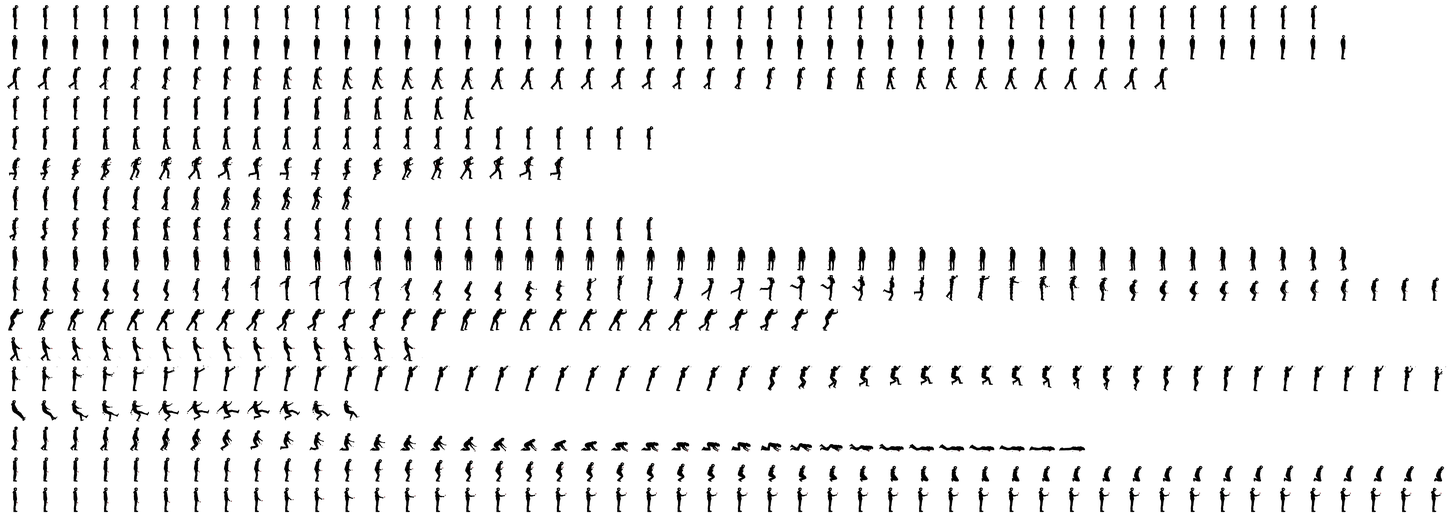
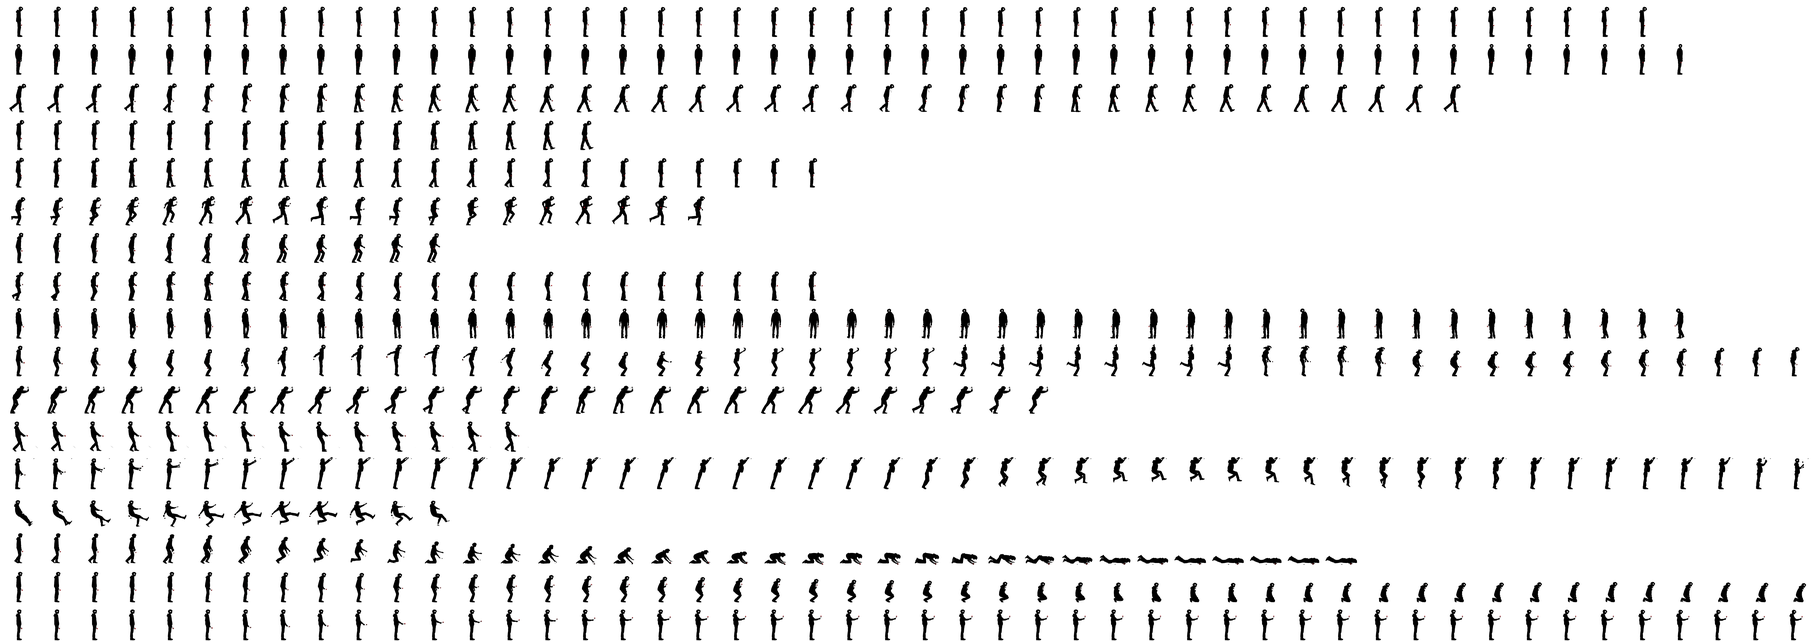
Gait-matched speeds, deeper ground, many more props
Sprites: 160 px cells with head-room so raised arms and jumps are no
longer clipped; frames the source video cropped are replaced by the
nearest clean one; each gait cycle stores its treadmill speed, measured
from the stride, and the engine plays walk, run, push, pull and the
mother's walk exactly as fast as the body moves, so feet stop sliding.

Movement: slower, grieving walk; ground run 1.6 with a full leap
whenever a direction is held at take-off (jump lengths unchanged);
gentler air control for hops; chases and timed levers retuned; water
stones rebalanced for the fixed-length leap.

World: stronger ground variation with mounds and hollows and a ragged
edge; grey ground bands under the far layers so trees are rooted;
props seated at the lowest ground under them; 32 new silhouettes
(stumps, ferns, graves, crows, scarecrow, well, mine cart, barrels,
lamp posts, poles, bicycle, clothesline...) placed in far, middle,
ground and foreground layers, plus hanging branches, front grass,
falling leaves, cave dust and crows crossing the sky.

Claude-Session: https://claude.ai/code/session_015t8gbJZNq26SKb4GYZLxqx

Changed region(s): [[0.4375, 0.5625, 0.5312, 0.5938], [0.5312, 0.5312, 0.5938, 0.5625]]

diff --git a/prototipos/una-rosa-cada-dia/index.html b/prototipos/una-rosa-cada-dia/index.html
@@ -94,7 +94,7 @@ button:focus-visible,input:focus-visible{outline:1px solid #bbb;outline-offset:3
    screen tall and several screens wide, designed by hand below.
    ========================================================================= */
 const VW = 480, VH = 270, GROUND = 230;
-const GRAV = .36, JUMP = -6.0, RUN = 2.0, WALK = 1.25, PUSHV = 1.0, STEP = 5;
+const GRAV = .36, JUMP = -6.0, RUN = 2.0, RUNG = 1.6, WALK = .55, MOMV = .65, PUSHV = .8, STEP = 5;
 const $ = s => document.querySelector(s);
 const cv = $('#game'), ctx = cv.getContext('2d');
 const RM = matchMedia('(prefers-reduced-motion: reduce)').matches;
@@ -107,9 +107,11 @@ const Ms = () => names.m.trim() || 'mamá';
 const cap = s => s.charAt(0).toUpperCase() + s.slice(1);
 
 /* ---------- assets ---------- */
-const PROPS = ['treeTall', 'treeSmall', 'grass', 'thorns', 'log', 'rock', 'roots', 'fence', 'stalL', 'stalM', 'stalS', 'mineFrame', 'stagL', 'stagM', 'chain', 'lantern', 'crate', 'trapOpen', 'trapShut', 'boulder', 'gate', 'lever', 'plate', 'rope'];
+const PROPS = ['treeTall', 'treeSmall', 'grass', 'thorns', 'log', 'rock', 'roots', 'fence', 'stalL', 'stalM', 'stalS', 'mineFrame', 'stagL', 'stagM', 'chain', 'lantern', 'crate', 'trapOpen', 'trapShut', 'boulder', 'gate', 'lever', 'plate', 'rope',
+  'stump', 'mushrooms', 'fern', 'deadBush', 'branch', 'sign', 'reeds', 'rockPile', 'cross', 'tomb', 'crow', 'tireSwing', 'scarecrow', 'wheel', 'well', 'birdhouse',
+  'cart', 'rail', 'barrels', 'ladder', 'planks', 'rootCurtain', 'crystals', 'pickaxe', 'lamp', 'pole', 'trashcan', 'fenceBroken', 'bicycle', 'doghouse', 'clothesline', 'steps'];
 const SRC = { brother: 'assets/brother.png', mother: 'assets/mother.png', forest_far: 'assets/forest_far.webp', cave_far: 'assets/cave_far.webp', rain_far: 'assets/rain_far.webp',
-  forest_mid: 'assets/forest_mid.webp', cave_ceil: 'assets/cave_ceil.webp', grass: 'assets/grass.png', house: 'assets/house.png', shadow: 'assets/shadow.webp', fog: 'assets/fog.png' };
+  forest_mid: 'assets/forest_mid.webp', cave_ceil: 'assets/cave_ceil.webp', grass: 'assets/grass.png', house: 'assets/house.png', shadow: 'assets/shadow.webp', fog: 'assets/fog.png', hang: 'assets/hang.png', fgrass: 'assets/fgrass.png' };
 for (const p of PROPS) SRC[p] = `assets/props/${p}.png`;
 const IMG = {}, ATLAS = {}; let META = {};
 function loadAll() {
@@ -155,7 +157,7 @@ const box = (x, y, w, h, kind, o = {}) => Object.assign({ x, y, w, h, kind, onew
 const deco = (k, x, base, h, layer = 'play', flip = false) => ({ k, x, base, h, layer, flip });
 
 function level1() { // EL BOSQUE
-  const L = { name: 'El bosque', theme: 'forest', w: 3300, rough: 7, flat: [[1186, 1430, 1.2], [2630, 2830, 0], [2880, 2945, 0]],
+  const L = { name: 'El bosque', theme: 'forest', w: 3300, rough: 9, flat: [[1186, 1430, 1.2], [2630, 2830, 0], [2880, 2945, 0]],
     terrain: [
       { pts: [[0, 224], [120, 228], [220, 236], [300, 240], [380, 236], [470, 228], [560, 232], [640, 232], [640, 172], [700, 170], [760, 174], [760, 232], [860, 234], [1000, 234], [1100, 230], [1130, 231]] },
       { pts: [[1186, 230], [1300, 228], [1420, 230], [1420, 130], [1560, 128], [1600, 140], [1680, 170], [1760, 200], [1840, 226], [1900, 230], [2150, 230], [2150, 208], [2200, 206], [2200, 230], [2380, 232]] },
@@ -166,7 +168,7 @@ function level1() { // EL BOSQUE
     traps: [{ x: 920, y: 234 }, { x: 2000, y: 230 }, { x: 2290, y: 231 }],
     plates: [{ id: 'plate0', x: 2760, y: 230, w: 34 }],
     levers: [], stal: [], water: [],
-    chases: [{ trigger: 1905, end: 2520, speed: 1.55 }],
+    chases: [{ trigger: 1905, end: 2520, speed: 1.3 }],
     checkpoints: [20, 790, 1470, 1880, 2560, 2940],
     goalX: 3140, houseX: 3070,
     says: [[30, 'h', 'Te lo prometí, ma. Una rosa todos los días.'], [560, 'n', 'Salta contra una pared baja para trepar.'], [1225, 'n', 'Empuja la caja.'],
@@ -183,7 +185,7 @@ function level1() { // EL BOSQUE
   return L;
 }
 function level2() { // LA CUEVA
-  return { name: 'La cueva', theme: 'cave', w: 3400, caveEnd: 2950, rough: 6, flat: [[1270, 1560, .8]],
+  return { name: 'La cueva', theme: 'cave', w: 3400, caveEnd: 2950, rough: 8, flat: [[1270, 1560, .8]],
     terrain: [
       { pts: [[0, 200], [140, 204], [260, 220], [380, 232], [440, 236], [440, 300]] },
       { pts: [[620, 300], [620, 236], [700, 232], [820, 230], [1700, 230]] },
@@ -191,7 +193,7 @@ function level2() { // LA CUEVA
       { pts: [[2650, 205], [2750, 190], [2900, 170], [3000, 165], [3150, 170], [3400, 172]] },
     ],
     boxes: [
-      box(478, 236, 30, 70, 'stone'), box(540, 238, 28, 70, 'stone', { fragile: true, sink: true }),
+      box(474, 236, 34, 70, 'stone'), box(540, 238, 36, 70, 'stone', { fragile: true, sink: true }),
       box(1520, 110, 16, 120, 'gate', { y0: 110, openH: 108, open: 0, by: 'lever0' }),
       ...Array.from({ length: 9 }, (_, i) => box(1702 + i * 29, 230, 27, 5, 'plank', { fragile: true })),
     ],
@@ -199,9 +201,9 @@ function level2() { // LA CUEVA
     crates: [],
     traps: [{ x: 1420, y: 230 }, { x: 2230, y: 230 }],
     plates: [],
-    levers: [{ id: 'lever0', x: 1300, y: 230, timed: 4.2 }],
+    levers: [{ id: 'lever0', x: 1300, y: 230, timed: 4.8 }],
     stal: [{ x: 905, len: 44 }, { x: 1015, len: 52 }, { x: 1125, len: 40 }, { x: 2300, len: 48 }, { x: 2560, len: 44 }],
-    chases: [{ trigger: 2050, end: 2900, speed: 1.6 }],
+    chases: [{ trigger: 2050, end: 2900, speed: 1.35 }],
     checkpoints: [20, 640, 1220, 1560, 1980, 2940],
     goalX: 3175, houseX: 3100,
     says: [[30, 'h', 'Aquí abajo no se ve nada.'], [420, 'n', 'El agua es profunda.'], [850, 'h', 'Algo cruje arriba.'], [1240, 'n', 'Shift o E junto a la palanca.'],
@@ -217,7 +219,7 @@ function level2() { // LA CUEVA
   };
 }
 function level3() { // LA LLUVIA
-  return { name: 'La lluvia', theme: 'rain', w: 3200, closed: true, rough: 7, flat: [[860, 1120, .8], [1230, 1520, .8]],
+  return { name: 'La lluvia', theme: 'rain', w: 3200, closed: true, rough: 9, flat: [[860, 1120, .8], [1230, 1520, .8]],
     terrain: [
       { pts: [[0, 228], [300, 230], [420, 226], [520, 230], [700, 160], [740, 160], [740, 230], [820, 230], [820, 188], [850, 188], [850, 230], [1850, 230]] },
       { pts: [[1905, 230], [2000, 230], [2000, 172], [2080, 170], [2130, 200], [2200, 230], [2400, 230]] },
@@ -232,8 +234,8 @@ function level3() { // LA LLUVIA
     crates: [{ x: 890, y: 204 }],
     traps: [{ x: 1000, y: 230 }, { x: 1024, y: 230 }, { x: 1048, y: 230 }, { x: 1750, y: 230 }, { x: 2255, y: 230 }],
     plates: [],
-    levers: [{ id: 'lever0', x: 1250, y: 230, timed: 3.4 }],
-    chases: [{ trigger: 1600, end: 2760, speed: 1.72 }],
+    levers: [{ id: 'lever0', x: 1250, y: 230, timed: 4.4 }],
+    chases: [{ trigger: 1600, end: 2760, speed: 1.45 }],
     checkpoints: [20, 870, 1120, 1540, 2600],
     goalX: 2890, houseX: 2820,
     says: [[30, 'h', 'Hoy está difícil, ¿verdad? Igual te la llevo.'], [860, 'n', 'Las trampas se cierran con cualquier peso.'], [1230, 'n', 'La reja se cierra rápido.'],
@@ -293,7 +295,11 @@ function roughen(d, seed) {
         for (let x = x1 + 14; x < x2 - 14; x += 11 + hash(x * .37 + seed) * 13) {
           const base = y1 + (y2 - y1) * (x - x1) / len, taper = Math.min(1, (x - x1) / 26, (x2 - x) / 26);
           const n = Math.sin(x * .0105 + seed) * .55 + Math.sin(x * .031 + seed * 2.3) * .3 + (hash(x * 1.7 + seed) - .5) * .3;
-          out.push([Math.round(x), base + n * ampAt(x) * taper]);
+          const amp = ampAt(x);
+          // an occasional mound or hollow, 70-130 px wide
+          const cell = Math.floor(x / 160), c0 = cell * 160 + 40 + hash(cell + seed) * 80, w = 35 + hash(cell * 3 + seed) * 30;
+          const bump = hash(cell * 7 + seed) > .45 ? (hash(cell * 11 + seed) > .5 ? -1 : .7) * (8 + hash(cell * 13) * 9) * Math.exp(-Math.pow((x - c0) / w, 2)) : 0;
+          out.push([Math.round(x), base + (n * amp + bump * Math.min(1, amp / 6)) * taper]);
         }
       }
       out.push([x2, y2]);
@@ -301,16 +307,42 @@ function roughen(d, seed) {
     p.pts = out;
   }
 }
-function dress(d, seed) { // stones, roots and grass half-buried along the ground
-  const keep = [...d.traps.map(t => t.x + 12), ...d.plates.map(p => p.x + p.w / 2), ...d.levers.map(l => l.x), ...d.crates.map(c => c.x + 13), ...d.boxes.filter(b => b.kind === 'gate').map(b => b.x), d.goalX, d.houseX + 60, ...d.checkpoints];
-  const kinds = ['grass', 'rock', 'roots', 'grass', 'thorns', 'rock'];
-  for (let x = 40; x < d.w - 40; x += 55 + hash(x + seed) * 90) {
-    if (keep.some(k => Math.abs(k - x) < 34)) continue;
-    const y = surfaceY(x); if (!isFinite(y) || y > VH) continue;
-    if (Math.abs(surfaceY(x - 8) - y) > 6 || Math.abs(surfaceY(x + 8) - y) > 6) continue;   // not on wall edges
-    const k = kinds[Math.floor(hash(x * 3 + seed) * kinds.length)], h = k === 'rock' ? 6 + hash(x) * 6 : 9 + hash(x * 5) * 10;
-    d.decor.push(deco(k, x, y + (k === 'rock' ? 3 : 2), h, 'play', hash(x * 7) > .5));
+const POOLS = {
+  forest: { bg: ['treeTall', 'treeSmall', 'treeTall', 'deadBush', 'stump', 'scarecrow', 'cross', 'sign', 'well'], mid: ['treeSmall', 'deadBush', 'stump', 'cross', 'tomb', 'reeds', 'fence', 'fern', 'birdhouse'],
+    play: ['grass', 'rock', 'roots', 'mushrooms', 'fern', 'reeds', 'rockPile', 'branch', 'thorns', 'grass', 'stump', 'cross'], fg: ['fern', 'reeds', 'grass', 'deadBush', 'thorns', 'branch'] },
+  cave: { bg: ['stagL', 'stagM', 'crystals', 'mineFrame', 'stagL'], mid: ['stagM', 'crystals', 'barrels', 'mineFrame', 'cart', 'ladder'],
+    play: ['rock', 'rockPile', 'crystals', 'barrels', 'planks', 'pickaxe', 'rail', 'roots', 'mushrooms'], fg: ['stagM', 'crystals', 'rockPile', 'rock'] },
+  rain: { bg: ['pole', 'treeTall', 'lamp', 'clothesline', 'doghouse', 'well', 'pole', 'treeSmall'], mid: ['fenceBroken', 'pole', 'lamp', 'trashcan', 'doghouse', 'bicycle', 'clothesline'],
+    play: ['grass', 'trashcan', 'rock', 'fenceBroken', 'bicycle', 'reeds', 'rockPile', 'wheel', 'branch'], fg: ['reeds', 'grass', 'fenceBroken', 'deadBush'] },
+  dream: { bg: ['treeTall', 'treeSmall', 'cross', 'deadBush'], mid: ['treeSmall', 'fern', 'reeds', 'tomb'], play: ['grass', 'fern', 'mushrooms', 'reeds', 'rock'], fg: ['fern', 'reeds', 'grass'] },
+};
+const PROP_H = { treeTall: [150, 230], treeSmall: [110, 170], deadBush: [30, 55], stump: [22, 40], scarecrow: [60, 80], cross: [24, 40], sign: [30, 44], well: [40, 56], tomb: [18, 28], reeds: [22, 40],
+  fence: [22, 30], fern: [18, 32], birdhouse: [40, 56], grass: [10, 20], rock: [6, 12], roots: [10, 20], mushrooms: [8, 14], rockPile: [8, 14], branch: [5, 9], thorns: [12, 22],
+  stagL: [90, 150], stagM: [70, 120], crystals: [16, 34], mineFrame: [60, 90], barrels: [22, 30], cart: [22, 28], ladder: [40, 60], planks: [8, 12], pickaxe: [12, 18], rail: [5, 7],
+  pole: [110, 170], lamp: [70, 100], clothesline: [40, 55], doghouse: [24, 32], trashcan: [18, 24], fenceBroken: [22, 30], bicycle: [18, 24], wheel: [16, 22] };
+function dress(d, seed) {
+  const pool = POOLS[d.theme] || POOLS.forest, H = k => { const r = PROP_H[k] || [12, 20]; return r; };
+  const keep = [...d.traps.map(t => t.x + 12), ...d.plates.map(p => p.x + p.w / 2), ...d.levers.map(l => l.x), ...d.crates.map(c => c.x + 13), ...d.boxes.filter(b => b.kind === 'gate').map(b => b.x + 8), d.goalX, d.houseX + 60];
+  const pickK = (list, x) => list[Math.floor(hash(x * 3.1 + seed) * list.length)];
+  // far and middle depth: rows of silhouettes standing on their own ground band
+  for (const [layer, step, spread] of [['bg', 95, 70], ['mid', 120, 90]]) {
+    for (let x = 30; x < d.w * (layer === 'bg' ? .62 : .86) + VW; x += step + hash(x + seed + (layer === 'bg' ? 1 : 2)) * spread) {
+      const k = pickK(pool[layer], x + (layer === 'bg' ? 0 : 500)), [a, b] = H(k), h = (a + hash(x * 5) * (b - a)) * (layer === 'bg' ? 1 : .8);
+      d.decor.push({ k, x, base: 0, h, layer, flip: hash(x * 7 + seed) > .5, band: true });
+    }
   }
+  // on the ground, around the play
+  for (let x = 30; x < d.w - 30; x += 22 + hash(x + seed) * 46) {
+    if (keep.some(k => Math.abs(k - x) < 30)) continue;
+    const k = pickK(pool.play, x), [a, b] = H(k), h = a + hash(x * 5) * (b - a);
+    const im = IMG[k], w = im ? im.width * h / im.height : h;
+    const ys = [surfaceY(x - w * .4), surfaceY(x), surfaceY(x + w * .4)];
+    if (ys.some(y => !isFinite(y) || y > VH)) continue;
+    if (Math.max(...ys) - Math.min(...ys) > 10) continue;                  // not across a wall edge
+    d.decor.push(deco(k, x, Math.max(...ys) + Math.max(2, h * .12), h, 'play', hash(x * 7) > .5));
+  }
+  // close to the camera, dark and large
+  for (let x = 200; x < d.w * 1.35 + VW; x += 260 + hash(x + seed) * 260) { const k = pickK(pool.fg, x), [a, b] = H(k); d.decor.push(deco(k, x, VH + 14, (a + hash(x) * (b - a)) * 2.6, 'fg', hash(x * 9) > .5)); }
 }
 function build(i) {
   const d = LEVELS[i](), prevL = L;
@@ -590,6 +622,8 @@ function chooseAnim(dt) {
   const sheet = L.dream ? 'mother' : 'brother', A = ATLAS[sheet]; if (!A) return null;
   const an = A.anims, clk = AN.clk, v = Math.abs(P.vx);
   const tick = (name, rate = 1) => (clk[name] = (clk[name] || 0) + dt * rate);
+  // play a gait exactly as fast as the body moves: measured treadmill speed -> game px/s
+  const gait = (name, speed) => { const m = an[name]; if (!m || !m.ground) return 1; const g = m.ground * (sheet === 'mother' ? 43 : 40) / A.bodyH; return Math.max(.3, Math.min(3.2, speed * 60 / g)); };
   const use = (name, f) => ({ sheet, anim: name, f: Math.max(0, Math.min(an[name].frames - 1, f)) });
   const chasing = chase && chase.started && !chase.done;
   // facing: turn in place when reversing slowly on the ground; instant in the air or in a chase
@@ -607,7 +641,7 @@ function chooseAnim(dt) {
     else if (AN.wasMoving) { AN.wasMoving = false; AN.stopT = 0; AN.stopClip = 'walk_stop'; }
     if (moving) {
       if (AN.moveT < an.walk_start.frames / an.walk_start.fps * .8) return out(use('walk_start', AN.moveT * an.walk_start.fps));
-      return out(use('walk', frameOf(an.walk, tick('walk', v / 1.1), 'loop')));
+      return out(use('walk', frameOf(an.walk, tick('walk', gait('walk', v)), 'loop')));
     }
     if (AN.stopT >= 0) { AN.stopT += dt; const m = an.walk_stop, f = AN.stopT * m.fps; if (f < m.frames - 1) return out(use('walk_stop', f)); AN.stopT = -1; }
     return out(use('idle', frameOf(an.idle, tick('idle'), 'pingpong')));
@@ -624,18 +658,18 @@ function chooseAnim(dt) {
     const p = Math.max(0, Math.min(.999, P.vy / 6.5)); return out(use('jump', J.fall[Math.floor(p * J.fall.length)]));
   }
   if (P.landT > 0 && J.land.length) { const p = 1 - P.landT / (J.land.length / J.fps); return out(use('jump', J.land[Math.max(0, Math.min(J.land.length - 1, Math.floor(p * J.land.length)))])); }
-  if (P.pushing > 0 && an.push) { AN.wasMoving = false; return out(use('push', frameOf(an.push, tick('push', .9), 'loop'))); }
-  if (P.pulling > 0 && an.pull) { AN.wasMoving = false; return out(use('pull', frameOf(an.pull, tick('pull', .9), 'loop'))); }
+  if (P.pushing > 0 && an.push) { AN.wasMoving = false; return out(use('push', frameOf(an.push, tick('push', gait('push', PUSHV)), 'loop'))); }
+  if (P.pulling > 0 && an.pull) { AN.wasMoving = false; return out(use('pull', frameOf(an.pull, tick('pull', gait('pull', PUSHV)), 'loop'))); }
   const moving = v > .18;
   if (moving) {
     if (!AN.wasMoving) AN.moveT = 0; AN.wasMoving = true; AN.stopT = -1; AN.moveT += dt; AN.lastSpeed = v;
-    const running = v > 1.55;
+    const running = v > 1.05;
     const st = running ? an.run_start : an.walk_start, stName = running ? 'run_start' : 'walk_start';
     if (st && AN.moveT < st.frames / st.fps * .75) return out(use(stName, AN.moveT * st.fps));
     // cycles advance with the distance covered, so the feet never slide
-    return running ? out(use('run', frameOf(an.run, tick('run', v / RUN), 'loop'))) : out(use('walk', frameOf(an.walk, tick('walk', Math.max(.55, v / WALK)), 'loop')));
+    return running ? out(use('run', frameOf(an.run, tick('run', gait('run', v)), 'loop'))) : out(use('walk', frameOf(an.walk, tick('walk', gait('walk', Math.max(.3, v))), 'loop')));
   }
-  if (AN.wasMoving) { AN.wasMoving = false; AN.stopT = 0; AN.stopClip = AN.lastSpeed > 1.55 ? 'run_stop' : 'walk_stop'; }
+  if (AN.wasMoving) { AN.wasMoving = false; AN.stopT = 0; AN.stopClip = AN.lastSpeed > 1.05 ? 'run_stop' : 'walk_stop'; }
   if (AN.stopT >= 0 && an[AN.stopClip]) { AN.stopT += dt; const m = an[AN.stopClip], f = AN.stopT * m.fps; if (f < m.frames - 1) return out(use(AN.stopClip, f)); AN.stopT = -1; }
   // standing still: sad breathing (forth and back, never restarting), a look back now and then, then kneeling
   if (P.idleT > 16 && an.kneel) { const f = frameOf(an.kneel, P.idleT - 16, 'hold'); AN.kneelF = f; return out(use('kneel', f)); }
@@ -738,19 +772,19 @@ function stepCore() {
   if (dir && dir === P.holdDir) P.holdT += dt; else { P.holdT = 0; P.holdDir = dir; }
   if (dir || K.j || !P.on) P.idleT = 0; else P.idleT += dt;
   const chasing = chase && chase.started && !chase.done;
-  let maxv = L.dream ? 1.1 : !P.on || chasing ? RUN : P.holdT < .45 ? WALK : Math.min(RUN, WALK + (P.holdT - .45) * 2.2);
+  let maxv = L.dream ? MOMV : !P.on ? RUN : chasing ? RUNG : P.holdT < .45 ? WALK : Math.min(RUNG, WALK + (P.holdT - .45) * 2.6);
   if (!L.dream && P.on && !chasing && P.x > L.goalX - 170) maxv = Math.min(maxv, WALK);
   const pullC = grab && dir ? adjacentCrate(-dir) : null;
   if (pullC || P.pushing > 0) maxv = PUSHV;
   if (inWater) maxv = .8;
-  const acc = P.on ? .32 : .22;
+  const acc = P.on ? .32 : .12;
   if (dir) { P.vx += dir * acc; P.face = dir; } else if (P.on) P.vx *= .68; else P.vx *= .96;
   if (Math.abs(P.vx) < .04) P.vx = 0;
   P.vx = Math.max(-maxv, Math.min(maxv, P.vx));
   if (K.j && !jPrev && !L.dream && AN.standT < 0) P.buf = 7;
   jPrev = K.j;
   P.co = P.on ? 6 : P.co - 1;
-  if (P.buf > 0 && P.co > 0 && !pullC && (!inWater || P.y + 8 < inWater.y)) { P.vy = JUMP; P.buf = 0; P.co = 0; P.on = false; P.airT = 0; noise(.08, .05, 'bandpass', 700, 1); }
+  if (P.buf > 0 && P.co > 0 && !pullC && (!inWater || P.y + 8 < inWater.y)) { P.vy = JUMP; P.buf = 0; P.co = 0; P.on = false; P.airT = 0; if (dir) P.vx = dir * Math.max(Math.abs(P.vx), RUNG) * 1.25; /* a held direction makes a full leap */ noise(.08, .05, 'bandpass', 700, 1); }
   P.buf--;
   if (!K.j && P.vy < -2.6) P.vy = -2.6;
   P.vy = Math.min(inWater ? .7 : 7, P.vy + (inWater ? .05 : GRAV));
@@ -829,11 +863,23 @@ function drawProp(c, d, par, color) {
   if (x > VW + 20 || x + w < -20) return;
   if (d.flip) { c.save(); c.translate(x + w, 0); c.scale(-1, 1); c.drawImage(im, 0, d.base - h, w, h); c.restore(); } else c.drawImage(im, x, d.base - h, w, h);
 }
+// a soft rolling ground line for a depth layer (in that layer's own coordinates)
+function bandY(x, par, y0, amp) { return y0 + Math.sin(x * .011 + par * 9) * amp + Math.sin(x * .037 + par * 3) * amp * .35; }
+function groundBand(c, par, y0, color, amp) {
+  if (L.theme === 'cave' && par < .6) return;
+  c.fillStyle = color; c.beginPath(); c.moveTo(0, VH);
+  for (let sx = 0; sx <= VW + 8; sx += 8) { const wx = sx + cam * par; c.lineTo(sx, bandY(wx, par, y0, amp)); }
+  c.lineTo(VW, VH); c.closePath(); c.fill();
+}
 function drawTerrain(c) {
   c.fillStyle = '#050505';
   for (const p of L.terrain) {
     c.beginPath(); c.moveTo(p.pts[0][0], VH + 60);
-    for (const [x, y] of p.pts) c.lineTo(x, y);
+    for (let i = 0; i < p.pts.length; i++) {
+      const [x, y] = p.pts[i]; c.lineTo(x, y);
+      const nx = p.pts[i + 1]; if (!nx || nx[0] - x < 6 || x > cam + VW + 20 || nx[0] < cam - 20) continue;
+      for (let xx = x + 4; xx < nx[0] - 2; xx += 4) c.lineTo(xx, y + (nx[1] - y) * (xx - x) / (nx[0] - x) + (hash(xx * .91) - .5) * 2.4);
+    }
     c.lineTo(p.pts[p.pts.length - 1][0], VH + 60); c.closePath(); c.fill();
   }
   const G = IMG.grass; if (!G) return;
@@ -961,9 +1007,11 @@ function render() {
   if (th !== 'cave') layer(c, tinted('forest_mid', '#5c5c5c'), .3, VH - 10, VH * 1.05, th === 'rain' ? .18 : .32);
   else layer(c, tinted('cave_ceil', '#3c3c3c'), .45, 0, 70, .9, true);
   layer(c, tinted('fogA', '#d2d2d2'), .38, 236, 110, .35);
-  for (const d of L.decor) if (d.layer === 'bg') drawProp(c, d, .55, '#2e2e2e');
+  groundBand(c, .55, 246, '#2c2c2c', 7);
+  for (const d of L.decor) if (d.layer === 'bg') drawProp(c, d.band ? { ...d, base: bandY(d.x - cam * .55 + cam * .55, .55, 246, 7) + 6 } : d, .55, '#2e2e2e');
   layer(c, tinted('fogA', '#bdbdbd'), .6, 262, 70, .25);
-  for (const d of L.decor) if (d.layer === 'mid') drawProp(c, d, .82, '#151515');
+  groundBand(c, .82, 252, '#141414', 9);
+  for (const d of L.decor) if (d.layer === 'mid') drawProp(c, d.band ? { ...d, base: bandY(d.x, .82, 252, 9) + 6 } : { ...d, base: d.base + 44 }, .82, '#151515');
   // play layer
   c.save(); c.translate(-cam, 0);
   drawHouse(c);
@@ -1017,6 +1065,10 @@ function render() {
   }
   c.restore();
   for (const dd of L.decor) if (dd.layer === 'fg') drawProp(c, dd, 1.35, '#000');
+  if (IMG.fgrass) layer(c, IMG.fgrass, 1.25, VH + 16, 46, .96);
+  if (IMG.hang && th !== 'cave') layer(c, IMG.hang, 1.3, 0, 64, .95, true);
+  if (th === 'cave' && IMG.rootCurtain) for (let i = Math.floor(cam * 1.3 / 170) - 1; i < Math.floor(cam * 1.3 / 170) + 5; i++) { if (hash(i * 3) < .4) continue; const im = IMG.rootCurtain, h = 50 + hash(i) * 40, w = im.width * h / im.height; c.drawImage(im, i * 170 - cam * 1.3, -8, w, h); }
+  ambience(c, t);
   if (th === 'rain') {
     c.strokeStyle = 'rgba(210,210,215,.28)'; c.lineWidth = .8; c.beginPath();
     for (let i = 0; i < 140; i++) { const x = ((i * 137.5 - t * 60 - cam * .2) % 560 + 560) % 560 - 40, y = ((i * 71.3 + t * 480) % (VH + 20)) - 10; c.moveTo(x, y); c.lineTo(x - 2.5, y + 10); }
@@ -1035,6 +1087,20 @@ function render() {
     if (Math.random() < .06) { c.strokeStyle = `rgba(230,230,225,${.06 + Math.random() * .08})`; c.lineWidth = .5; const x = Math.random() * VW; c.beginPath(); c.moveTo(x, 0); c.lineTo(x + (Math.random() - .5) * 5, VH); c.stroke(); }
   }
   if (S.dead) { const k = Math.max(0, (S.dead.t - .9) / 1.1); c.fillStyle = `rgba(0,0,0,${Math.min(1, k)})`; c.fillRect(-10, -10, VW + 20, VH + 20); }
+}
+
+function ambience(c, t) {
+  const th = L.theme;
+  if (th === 'forest' || th === 'dream') { // leaves drifting down
+    c.fillStyle = 'rgba(8,8,8,.85)';
+    for (let i = 0; i < 18; i++) {
+      const sp = 14 + hash(i) * 16, y = ((t * sp + hash(i * 3) * 400) % (VH + 40)) - 20, x = ((hash(i * 7) * 700 - cam * (.6 + hash(i) * .6) + Math.sin(t * .8 + i) * 22) % 560 + 560) % 560 - 40;
+      c.save(); c.translate(x, y); c.rotate(t * (1 + hash(i)) + i); c.beginPath(); c.ellipse(0, 0, 2.4, 1.1, 0, 0, 7); c.fill(); c.restore();
+    }
+  }
+  if (th === 'cave') { c.fillStyle = 'rgba(210,210,205,.35)'; for (let i = 0; i < 26; i++) { const x = ((hash(i * 5) * 600 - cam * .7 + Math.sin(t * .3 + i) * 12) % 540 + 540) % 540 - 30, y = hash(i * 9) * VH + Math.sin(t * .4 + i) * 8; c.fillRect(x, y, .8, .8); } }
+  // a crow now and then, crossing the sky
+  const cw = IMG.crow; if (cw && th !== 'cave') { const per = 19, k = (t % per) / per, n = Math.floor(t / per); if (k < .35) { const x = VW + 30 - k / .35 * (VW + 90), y = 40 + hash(n) * 60 + Math.sin(k * 40) * 3, h = 12; c.save(); c.globalAlpha = .8; c.translate(x, y); c.scale(-1, 1); c.drawImage(cw, 0, 0, cw.width * h / cw.height, h); c.restore(); } }
 }
 
 /* ---------- loop ---------- */

diff --git a/prototipos/una-rosa-cada-dia/tools/make_sheets.py b/prototipos/una-rosa-cada-dia/tools/make_sheets.py
@@ -20,7 +20,7 @@ import imageio_ffmpeg
 FF = imageio_ffmpeg.get_ffmpeg_exe()
 OUT = sys.argv[1]
 os.makedirs(OUT, exist_ok=True)
-F = 128          # square frame (px); anchor at bottom centre
+F = 160          # square frame (px); anchor at bottom centre, with head-room for raised arms
 MAXF = 48
 FPS = 24
 _cache = {}
@@ -99,6 +99,32 @@ def pick(spec):
     return raw[a:e]           # clip, hold, jump
 
 
+def uncut(seq):
+    """Replace frames where the video cropped the figure (touches the top/side edge) with the nearest clean one."""
+    bad = []
+    for f in seq:
+        a = f[..., 3] > 60
+        bad.append(a[:3].any() or a[:, :3].any() or a[:, -3:].any())
+    if not any(bad) or all(bad):
+        return seq
+    good = [i for i, b in enumerate(bad) if not b]
+    return [seq[i] if not bad[i] else seq[min(good, key=lambda g: abs(g - i))] for i in range(len(seq))]
+
+
+def ground_speed(row, fps):
+    """Treadmill speed of a gait cycle in sheet px per second: a cycle is two steps,
+    and a step is how far the feet spread apart (widest leg span minus narrowest)."""
+    ws = []
+    for cell in row:
+        a = np.asarray(cell)[..., 3] > 80
+        ys = np.where(a.any(axis=1))[0]
+        if not len(ys):
+            continue
+        band = a[ys.max() - int((ys.max() - ys.min()) * .12): ys.max() + 1]
+        xs = np.where(band.any(axis=0))[0]; ws.append(xs.max() - xs.min())
+    return 2 * (max(ws) - min(ws)) / (len(row) / fps) if ws else 0.0
+
+
 def thin(seq):
     if len(seq) <= MAXF:
         return seq, FPS
@@ -109,7 +135,7 @@ def thin(seq):
 def process(name, specs):
     data = []
     for anim, spec in specs.items():
-        seq, fps = thin(pick(spec))
+        seq, fps = thin(uncut(pick(spec)))
         data.append((anim, spec, seq, fps))
         print(name, anim, spec['kind'], len(seq), round(fps, 1))
     ref = next(s for a, sp, s, f in data if a == 'idle')
@@ -146,6 +172,8 @@ def process(name, specs):
             m['land'] = [int(i) for i in range(air.max() + 1, min(len(L), air.max() + 9))]
         if kind == 'hold':
             m['loopFrom'] = int(len(row) * .62)
+        if kind == 'cycle':
+            m['ground'] = round(ground_speed(row, fps), 2)
         meta[anim] = m
 
     cols = max(len(r) for r in rows)

diff --git a/prototipos/una-rosa-cada-dia/tools/slice_props.py b/prototipos/una-rosa-cada-dia/tools/slice_props.py
@@ -5,13 +5,22 @@ from PIL import Image, ImageFilter
 from collections import deque
 
 OUT = sys.argv[1]
+import os
+ONLY = os.environ.get('ONLY')
 SHEETS = {
+    'l_props_forest2': ['stump', 'mushrooms', 'fern', 'deadBush', 'branch', 'sign', 'reeds', 'rockPile'],
+    'l_props_grave': ['cross', 'tomb', 'crow', 'tireSwing', 'scarecrow', 'wheel', 'well', 'birdhouse'],
+    'l_props_mine': ['cart', 'rail', 'barrels', 'ladder', 'planks', 'rootCurtain', 'crystals', 'pickaxe'],
+    'l_props_town': ['lamp', 'pole', 'trashcan', 'fenceBroken', 'bicycle', 'doghouse', 'clothesline', 'steps'],
     'l_props_forest': ['treeTall', 'treeSmall', 'grass', 'thorns', 'log', 'rock', 'roots', 'fence'],
     'l_props_cave': ['stalL', 'stalM', 'stalS', 'mineFrame', 'stagL', 'stagM', 'chain', 'lantern'],
     'l_props_play': ['crate', 'trapOpen', 'trapShut', 'boulder', 'gate', 'lever', 'plate', 'rope'],
 }
 meta = {}
+meta = json.load(open(f'{OUT}/props.json')) if os.path.exists(f'{OUT}/props.json') else {}
 for sheet, names in SHEETS.items():
+    if ONLY and sheet not in ONLY.split(','):
+        continue
     im = Image.open(sheet + '.png').convert('RGBA')
     a = np.asarray(im)[..., 3] > 25
     # join thin parts (chain links, grass blades) before labelling
